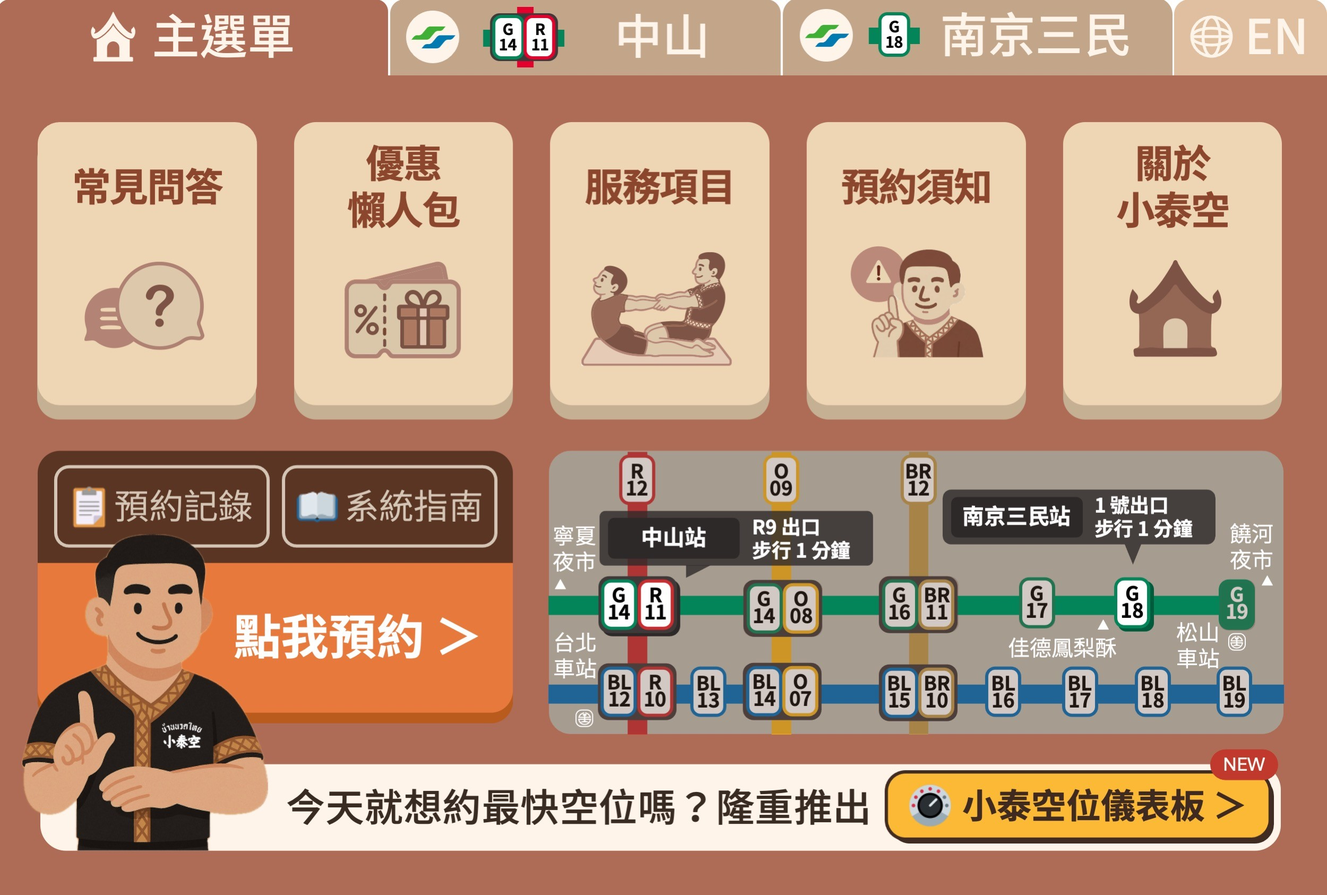
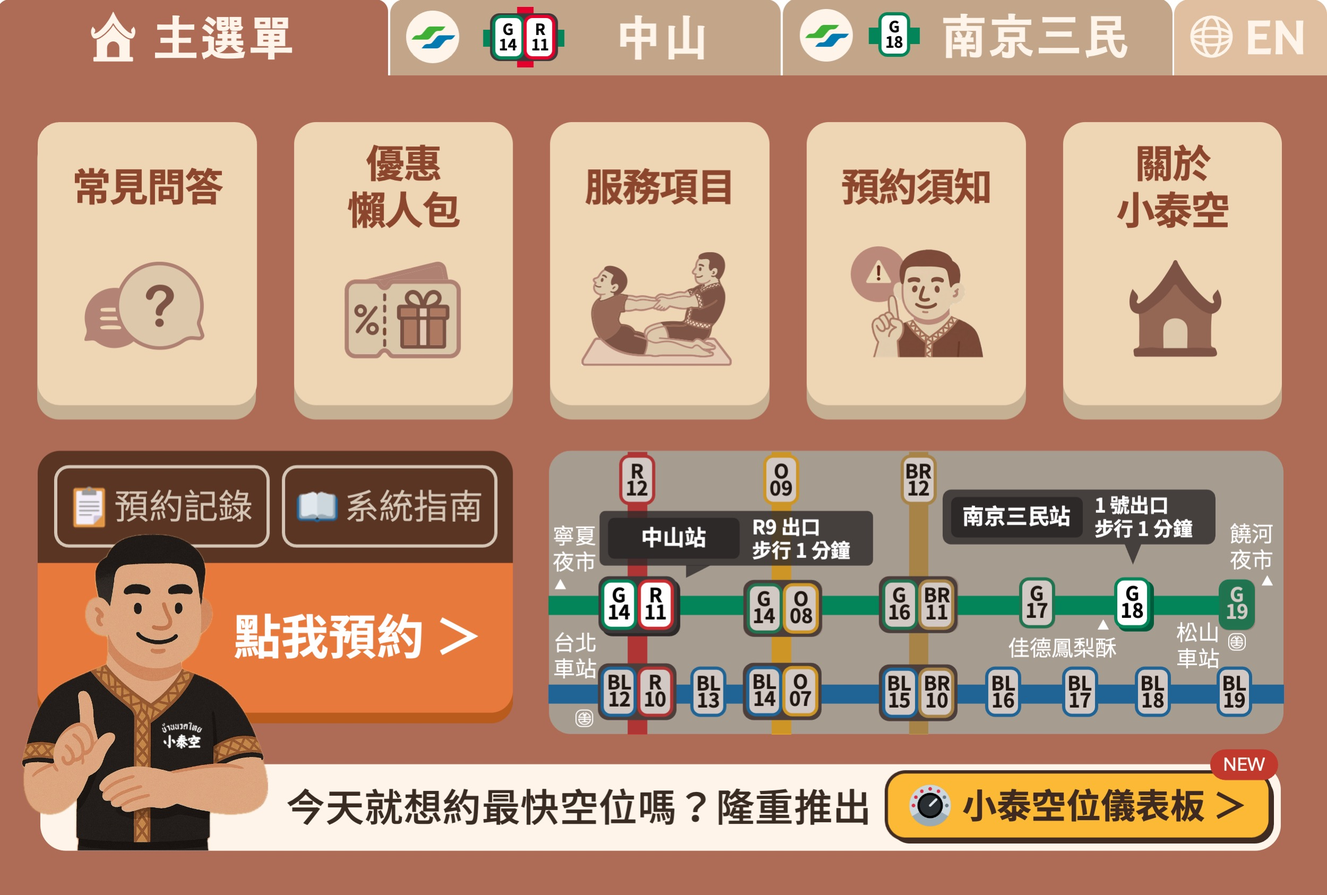
2026-09-24 新師上線版：汪/澤/泰 上線、書 移除
- page2 中山：「新師培訓中，敬請期待」佔位 → 汪 Wang
- page3 南京三民：新增 澤 Ze、泰 Tai；書 移除；九格重新對位
- page5 Team_en：同步 汪/澤/泰，移除 Training in Progress 佔位
- page1 主選單 / page4 English：僅換圖，熱區不變
- 修正 page3 第 2 格錯字 關於書老柏 → 關於柏老師（與 page5 一致）

diff --git a/index.html b/index.html
@@ -60,10 +60,10 @@
 <body>
 <div class="wrap">
 <div class="page" id="p1"><img src="page1.jpg" alt="主選單"><a class="spot" style="left:2.400%;top:13.345%;width:17.040%;height:34.045%" href="https://nick810303.github.io/spacethai_FAQ/" target="_blank" rel="noopener"></a><a class="spot" style="left:21.840%;top:13.286%;width:17.040%;height:34.045%" href="https://line.me/R/oaMessage/%40270vnkfr/?%E5%84%AA%E6%83%A0%E6%87%B6%E4%BA%BA%E5%8C%85" data-msg="優惠懶人包" title="優惠懶人包"></a><a class="spot" style="left:41.120%;top:13.464%;width:17.040%;height:34.045%" href="https://line.me/R/oaMessage/%40270vnkfr/?%E6%9C%8D%E5%8B%99%E9%A0%85%E7%9B%AE" data-msg="服務項目" title="服務項目"></a><a class="spot" style="left:60.560%;top:13.286%;width:17.040%;height:34.045%" href="https://line.me/R/oaMessage/%40270vnkfr/?%E9%A0%90%E7%B4%84%E9%A0%88%E7%9F%A5" data-msg="預約須知" title="預約須知"></a><a class="spot" style="left:80.120%;top:13.286%;width:17.040%;height:34.045%" href="https://line.me/R/oaMessage/%40270vnkfr/?%E9%97%9C%E6%96%BC%E5%B0%8F%E6%B3%B0%E7%A9%BA" data-msg="關於小泰空" title="關於小泰空"></a><a class="spot" style="left:2.560%;top:50.652%;width:18.240%;height:12.218%" href="https://liff.line.me/2007603682-rDEPkdA2/a33MS6uxvrwXxin2jHTk4N/record" target="_blank" rel="noopener"></a><a class="spot" style="left:20.560%;top:50.474%;width:18.240%;height:12.218%" href="https://nick810303.github.io/spacethai_manual/?openExternalBrowser=1" target="_blank" rel="noopener"></a><a class="spot" style="left:11.480%;top:62.574%;width:27.400%;height:17.912%" href="https://liff.line.me/2007603682-rDEPkdA2/a33MS6uxvrwXxin2jHTk4N/menu" target="_blank" rel="noopener"></a><a class="spot" style="left:41.160%;top:50.119%;width:28.160%;height:32.444%" href="https://line.me/R/oaMessage/%40270vnkfr/?%E5%B0%8F%E6%B3%B0%E7%A9%BA%EF%BC%8E%E4%B8%AD%E5%B1%B1" data-msg="小泰空．中山" title="小泰空．中山"></a><a class="spot" style="left:69.280%;top:50.059%;width:27.480%;height:32.444%" href="https://line.me/R/oaMessage/%40270vnkfr/?%E5%B0%8F%E6%B3%B0%E7%A9%BA%EF%BC%8E%E5%8D%97%E4%BA%AC%E4%B8%89%E6%B0%91" data-msg="小泰空．南京三民" title="小泰空．南京三民"></a><a class="spot" style="left:0.000%;top:0.000%;width:29.080%;height:10.854%" href="#p1" onclick="show(1);return false" aria-label="切換頁面"></a><a class="spot" style="left:29.200%;top:0.000%;width:29.800%;height:10.854%" href="#p2" onclick="show(2);return false" aria-label="切換頁面"></a><a class="spot" style="left:58.840%;top:0.000%;width:29.720%;height:10.854%" href="#p3" onclick="show(3);return false" aria-label="切換頁面"></a><a class="spot" style="left:88.600%;top:0.000%;width:11.240%;height:10.854%" href="#p4" onclick="show(4);return false" aria-label="切換頁面"></a><a class="spot" style="left:20.080%;top:85.172%;width:76.760%;height:10.083%" href="https://liff.line.me/2009610906-9zraEtAy" target="_blank" rel="noopener"></a></div>
-<div class="page" id="p2"><img src="page2.jpg" alt="中山"><a class="spot" style="left:2.920%;top:12.100%;width:13.880%;height:35.706%" href="https://line.me/R/oaMessage/%40270vnkfr/?%E9%97%9C%E6%96%BC%E6%BE%88%E8%80%81%E5%B8%AB" data-msg="關於澈老師" title="關於澈老師"></a><a class="spot" style="left:16.680%;top:12.040%;width:12.280%;height:35.706%" href="https://line.me/R/oaMessage/%40270vnkfr/?%E9%97%9C%E6%96%BC%E7%8D%BA%E8%80%81%E5%B8%AB" data-msg="關於獺老師" title="關於獺老師"></a><a class="spot" style="left:29.240%;top:12.100%;width:13.120%;height:35.706%" href="https://line.me/R/oaMessage/%40270vnkfr/?%E9%97%9C%E6%96%BC%E4%BB%A4%E8%80%81%E5%B8%AB" data-msg="關於令老師" title="關於令老師"></a><a class="spot" style="left:42.400%;top:12.040%;width:13.120%;height:35.706%" href="https://line.me/R/oaMessage/%40270vnkfr/?%E9%97%9C%E6%96%BC%E6%82%9F%E8%80%81%E5%B8%AB" data-msg="關於悟老師" title="關於悟老師"></a><a class="spot" style="left:55.400%;top:11.862%;width:13.120%;height:35.706%" href="https://line.me/R/oaMessage/%40270vnkfr/?%E9%97%9C%E6%96%BC%E6%B2%90%E8%80%81%E5%B8%AB" data-msg="關於沐老師" title="關於沐老師"></a><a class="spot" style="left:2.560%;top:50.652%;width:18.240%;height:12.218%" href="https://liff.line.me/2007603682-rDEPkdA2/a33MS6uxvrwXxin2jHTk4N/record" target="_blank" rel="noopener"></a><a class="spot" style="left:20.560%;top:50.474%;width:18.240%;height:12.218%" href="https://nick810303.github.io/spacethai_manual/?openExternalBrowser=1" target="_blank" rel="noopener"></a><a class="spot" style="left:11.480%;top:62.574%;width:27.400%;height:17.912%" href="https://liff.line.me/2007603682-rDEPkdA2/a33MS6uxvrwXxin2jHTk4N/menu" target="_blank" rel="noopener"></a><a class="spot" style="left:41.160%;top:50.119%;width:28.160%;height:32.444%" href="https://line.me/R/oaMessage/%40270vnkfr/?%E5%B0%8F%E6%B3%B0%E7%A9%BA%EF%BC%8E%E4%B8%AD%E5%B1%B1" data-msg="小泰空．中山" title="小泰空．中山"></a><a class="spot" style="left:0.000%;top:0.000%;width:29.080%;height:10.854%" href="#p1" onclick="show(1);return false" aria-label="切換頁面"></a><a class="spot" style="left:29.200%;top:0.000%;width:29.800%;height:10.854%" href="#p2" onclick="show(2);return false" aria-label="切換頁面"></a><a class="spot" style="left:58.840%;top:0.000%;width:29.720%;height:10.854%" href="#p3" onclick="show(3);return false" aria-label="切換頁面"></a><a class="spot" style="left:88.600%;top:0.000%;width:11.240%;height:10.854%" href="#p4" onclick="show(4);return false" aria-label="切換頁面"></a><a class="spot" style="left:20.080%;top:85.172%;width:76.760%;height:10.083%" href="https://liff.line.me/2009610906-9zraEtAy" target="_blank" rel="noopener"></a><a class="spot" style="left:68.720%;top:11.862%;width:14.760%;height:35.587%" href="https://line.me/R/oaMessage/%40270vnkfr/?%E9%97%9C%E6%96%BC%E6%98%87%E8%80%81%E5%B8%AB" data-msg="關於昇老師" title="關於昇老師"></a><a class="spot" style="left:83.640%;top:11.922%;width:14.760%;height:35.587%" href="https://line.me/R/oaMessage/%40270vnkfr/?%E6%96%B0%E5%B8%AB%E5%9F%B9%E8%A8%93%E4%B8%AD%EF%BC%8C%E6%95%AC%E8%AB%8B%E6%9C%9F%E5%BE%85" data-msg="新師培訓中，敬請期待" title="新師培訓中，敬請期待"></a></div>
-<div class="page" id="p3"><img src="page3.jpg" alt="南京三民"><a class="spot" style="left:0.280%;top:12.100%;width:13.880%;height:35.706%" href="https://line.me/R/oaMessage/%40270vnkfr/?%E9%97%9C%E6%96%BC%E6%BA%90%E8%80%81%E5%B8%AB" data-msg="關於源老師" title="關於源老師"></a><a class="spot" style="left:13.440%;top:12.040%;width:12.280%;height:35.706%" href="https://line.me/R/oaMessage/%40270vnkfr/?%E9%97%9C%E6%96%BC%E6%9B%B8%E8%80%81%E5%B8%AB" data-msg="關於書老師" title="關於書老師"></a><a class="spot" style="left:25.040%;top:12.278%;width:12.040%;height:35.706%" href="https://line.me/R/oaMessage/%40270vnkfr/?%E9%97%9C%E6%96%BC%E6%9F%8F%E8%80%81%E5%B8%AB" data-msg="關於柏老師" title="關於柏老師"></a><a class="spot" style="left:37.000%;top:12.218%;width:12.400%;height:35.706%" href="https://line.me/R/oaMessage/%40270vnkfr/?%E9%97%9C%E6%96%BC%E9%8D%9B%E8%80%81%E5%B8%AB" data-msg="關於鍛老師" title="關於鍛老師"></a><a class="spot" style="left:49.400%;top:11.862%;width:12.600%;height:35.706%" href="https://line.me/R/oaMessage/%40270vnkfr/?%E9%97%9C%E6%96%BC%E6%9B%9C%E8%80%81%E5%B8%AB" data-msg="關於曜老師" title="關於曜老師"></a><a class="spot" style="left:61.880%;top:12.159%;width:12.720%;height:35.706%" href="https://line.me/R/oaMessage/%40270vnkfr/?%E9%97%9C%E6%96%BC%E6%A4%B0%E8%80%81%E5%B8%AB" data-msg="關於椰老師" title="關於椰老師"></a><a class="spot" style="left:74.480%;top:12.040%;width:12.240%;height:35.706%" href="https://line.me/R/oaMessage/%40270vnkfr/?%E9%97%9C%E6%96%BC%E5%AF%A7%E8%80%81%E5%B8%AB" data-msg="關於寧老師" title="關於寧老師"></a><a class="spot" style="left:2.560%;top:50.652%;width:18.240%;height:12.218%" href="https://liff.line.me/2007603682-rDEPkdA2/a33MS6uxvrwXxin2jHTk4N/record" target="_blank" rel="noopener"></a><a class="spot" style="left:20.560%;top:50.474%;width:18.240%;height:12.218%" href="https://nick810303.github.io/spacethai_manual/?openExternalBrowser=1" target="_blank" rel="noopener"></a><a class="spot" style="left:11.480%;top:62.574%;width:27.400%;height:17.912%" href="https://liff.line.me/2007603682-rDEPkdA2/a33MS6uxvrwXxin2jHTk4N/menu" target="_blank" rel="noopener"></a><a class="spot" style="left:69.000%;top:50.237%;width:28.160%;height:32.444%" href="https://line.me/R/oaMessage/%40270vnkfr/?%E5%B0%8F%E6%B3%B0%E7%A9%BA%EF%BC%8E%E5%8D%97%E4%BA%AC%E4%B8%89%E6%B0%91" data-msg="小泰空．南京三民" title="小泰空．南京三民"></a><a class="spot" style="left:0.000%;top:0.000%;width:29.080%;height:10.854%" href="#p1" onclick="show(1);return false" aria-label="切換頁面"></a><a class="spot" style="left:29.200%;top:0.000%;width:29.800%;height:10.854%" href="#p2" onclick="show(2);return false" aria-label="切換頁面"></a><a class="spot" style="left:58.840%;top:0.000%;width:29.720%;height:10.854%" href="#p3" onclick="show(3);return false" aria-label="切換頁面"></a><a class="spot" style="left:88.600%;top:0.000%;width:11.240%;height:10.854%" href="#p4" onclick="show(4);return false" aria-label="切換頁面"></a><a class="spot" style="left:86.640%;top:12.159%;width:13.360%;height:34.698%" href="https://line.me/R/oaMessage/%40270vnkfr/?%E9%97%9C%E6%96%BC%E6%98%8A%E8%80%81%E5%B8%AB" data-msg="關於昊老師" title="關於昊老師"></a><a class="spot" style="left:20.680%;top:85.172%;width:76.760%;height:10.083%" href="https://liff.line.me/2009610906-9zraEtAy" target="_blank" rel="noopener"></a></div>
+<div class="page" id="p2"><img src="page2.jpg" alt="中山"><a class="spot" style="left:2.680%;top:12.337%;width:13.880%;height:35.706%" href="https://line.me/R/oaMessage/%40270vnkfr/?%E9%97%9C%E6%96%BC%E6%BE%88%E8%80%81%E5%B8%AB" data-msg="關於澈老師" title="關於澈老師"></a><a class="spot" style="left:16.680%;top:12.040%;width:12.280%;height:35.706%" href="https://line.me/R/oaMessage/%40270vnkfr/?%E9%97%9C%E6%96%BC%E7%8D%BA%E8%80%81%E5%B8%AB" data-msg="關於獺老師" title="關於獺老師"></a><a class="spot" style="left:29.240%;top:12.100%;width:13.120%;height:35.706%" href="https://line.me/R/oaMessage/%40270vnkfr/?%E9%97%9C%E6%96%BC%E4%BB%A4%E8%80%81%E5%B8%AB" data-msg="關於令老師" title="關於令老師"></a><a class="spot" style="left:42.400%;top:12.040%;width:13.120%;height:35.706%" href="https://line.me/R/oaMessage/%40270vnkfr/?%E9%97%9C%E6%96%BC%E6%82%9F%E8%80%81%E5%B8%AB" data-msg="關於悟老師" title="關於悟老師"></a><a class="spot" style="left:55.400%;top:11.862%;width:13.120%;height:35.706%" href="https://line.me/R/oaMessage/%40270vnkfr/?%E9%97%9C%E6%96%BC%E6%B2%90%E8%80%81%E5%B8%AB" data-msg="關於沐老師" title="關於沐老師"></a><a class="spot" style="left:2.560%;top:50.652%;width:18.240%;height:12.218%" href="https://liff.line.me/2007603682-rDEPkdA2/a33MS6uxvrwXxin2jHTk4N/record" target="_blank" rel="noopener"></a><a class="spot" style="left:20.560%;top:50.474%;width:18.240%;height:12.218%" href="https://nick810303.github.io/spacethai_manual/?openExternalBrowser=1" target="_blank" rel="noopener"></a><a class="spot" style="left:11.480%;top:62.574%;width:27.400%;height:17.912%" href="https://liff.line.me/2007603682-rDEPkdA2/a33MS6uxvrwXxin2jHTk4N/menu" target="_blank" rel="noopener"></a><a class="spot" style="left:41.160%;top:50.119%;width:28.160%;height:32.444%" href="https://line.me/R/oaMessage/%40270vnkfr/?%E5%B0%8F%E6%B3%B0%E7%A9%BA%EF%BC%8E%E4%B8%AD%E5%B1%B1" data-msg="小泰空．中山" title="小泰空．中山"></a><a class="spot" style="left:0.000%;top:0.000%;width:29.080%;height:10.854%" href="#p1" onclick="show(1);return false" aria-label="切換頁面"></a><a class="spot" style="left:29.200%;top:0.000%;width:29.800%;height:10.854%" href="#p2" onclick="show(2);return false" aria-label="切換頁面"></a><a class="spot" style="left:58.840%;top:0.000%;width:29.720%;height:10.854%" href="#p3" onclick="show(3);return false" aria-label="切換頁面"></a><a class="spot" style="left:88.600%;top:0.000%;width:11.240%;height:10.854%" href="#p4" onclick="show(4);return false" aria-label="切換頁面"></a><a class="spot" style="left:20.080%;top:85.172%;width:76.760%;height:10.083%" href="https://liff.line.me/2009610906-9zraEtAy" target="_blank" rel="noopener"></a><a class="spot" style="left:68.720%;top:11.862%;width:14.760%;height:35.587%" href="https://line.me/R/oaMessage/%40270vnkfr/?%E9%97%9C%E6%96%BC%E6%98%87%E8%80%81%E5%B8%AB" data-msg="關於昇老師" title="關於昇老師"></a><a class="spot" style="left:83.640%;top:11.922%;width:14.760%;height:35.587%" href="https://line.me/R/oaMessage/%40270vnkfr/?%E9%97%9C%E6%96%BC%E6%B1%AA%E8%80%81%E5%B8%AB" data-msg="關於汪老師" title="關於汪老師"></a></div>
+<div class="page" id="p3"><img src="page3.jpg" alt="南京三民"><a class="spot" style="left:0.280%;top:11.981%;width:12.160%;height:35.706%" href="https://line.me/R/oaMessage/%40270vnkfr/?%E9%97%9C%E6%96%BC%E6%BA%90%E8%80%81%E5%B8%AB" data-msg="關於源老師" title="關於源老師"></a><a class="spot" style="left:12.440%;top:12.040%;width:10.680%;height:35.706%" href="https://line.me/R/oaMessage/%40270vnkfr/?%E9%97%9C%E6%96%BC%E6%9F%8F%E8%80%81%E5%B8%AB" data-msg="關於柏老師" title="關於柏老師"></a><a class="spot" style="left:23.320%;top:12.278%;width:10.240%;height:35.706%" href="https://line.me/R/oaMessage/%40270vnkfr/?%E9%97%9C%E6%96%BC%E9%8D%9B%E8%80%81%E5%B8%AB" data-msg="關於鍛老師" title="關於鍛老師"></a><a class="spot" style="left:33.800%;top:12.100%;width:10.600%;height:35.706%" href="https://line.me/R/oaMessage/%40270vnkfr/?%E9%97%9C%E6%96%BC%E6%9B%9C%E8%80%81%E5%B8%AB" data-msg="關於曜老師" title="關於曜老師"></a><a class="spot" style="left:44.600%;top:11.862%;width:10.640%;height:35.706%" href="https://line.me/R/oaMessage/%40270vnkfr/?%E9%97%9C%E6%96%BC%E6%A4%B0%E8%80%81%E5%B8%AB" data-msg="關於椰老師" title="關於椰老師"></a><a class="spot" style="left:55.360%;top:11.922%;width:10.600%;height:35.706%" href="https://line.me/R/oaMessage/%40270vnkfr/?%E9%97%9C%E6%96%BC%E5%AF%A7%E8%80%81%E5%B8%AB" data-msg="關於寧老師" title="關於寧老師"></a><a class="spot" style="left:66.160%;top:11.684%;width:10.520%;height:35.706%" href="https://line.me/R/oaMessage/%40270vnkfr/?%E9%97%9C%E6%96%BC%E6%98%8A%E8%80%81%E5%B8%AB" data-msg="關於昊老師" title="關於昊老師"></a><a class="spot" style="left:2.560%;top:50.652%;width:18.240%;height:12.218%" href="https://liff.line.me/2007603682-rDEPkdA2/a33MS6uxvrwXxin2jHTk4N/record" target="_blank" rel="noopener"></a><a class="spot" style="left:20.560%;top:50.474%;width:18.240%;height:12.218%" href="https://nick810303.github.io/spacethai_manual/?openExternalBrowser=1" target="_blank" rel="noopener"></a><a class="spot" style="left:11.480%;top:62.574%;width:27.400%;height:17.912%" href="https://liff.line.me/2007603682-rDEPkdA2/a33MS6uxvrwXxin2jHTk4N/menu" target="_blank" rel="noopener"></a><a class="spot" style="left:69.000%;top:50.237%;width:28.160%;height:32.444%" href="https://line.me/R/oaMessage/%40270vnkfr/?%E5%B0%8F%E6%B3%B0%E7%A9%BA%EF%BC%8E%E5%8D%97%E4%BA%AC%E4%B8%89%E6%B0%91" data-msg="小泰空．南京三民" title="小泰空．南京三民"></a><a class="spot" style="left:0.000%;top:0.000%;width:29.080%;height:10.854%" href="#p1" onclick="show(1);return false" aria-label="切換頁面"></a><a class="spot" style="left:29.200%;top:0.000%;width:29.800%;height:10.854%" href="#p2" onclick="show(2);return false" aria-label="切換頁面"></a><a class="spot" style="left:58.840%;top:0.000%;width:29.720%;height:10.854%" href="#p3" onclick="show(3);return false" aria-label="切換頁面"></a><a class="spot" style="left:88.600%;top:0.000%;width:11.240%;height:10.854%" href="#p4" onclick="show(4);return false" aria-label="切換頁面"></a><a class="spot" style="left:77.000%;top:11.329%;width:10.360%;height:35.884%" href="https://line.me/R/oaMessage/%40270vnkfr/?%E9%97%9C%E6%96%BC%E6%BE%A4%E8%80%81%E5%B8%AB" data-msg="關於澤老師" title="關於澤老師"></a><a class="spot" style="left:87.640%;top:11.151%;width:11.920%;height:35.884%" href="https://line.me/R/oaMessage/%40270vnkfr/?%E9%97%9C%E6%96%BC%E6%B3%B0%E8%80%81%E5%B8%AB" data-msg="關於泰老師" title="關於泰老師"></a><a class="spot" style="left:20.680%;top:85.172%;width:76.760%;height:10.083%" href="https://liff.line.me/2009610906-9zraEtAy" target="_blank" rel="noopener"></a></div>
 <div class="page" id="p4"><img src="page4.jpg" alt="English"><a class="spot" style="left:2.400%;top:13.345%;width:17.040%;height:34.045%" href="https://nick810303.github.io/spacethai_FAQ/?lang=en" target="_blank" rel="noopener"></a><a class="spot" style="left:21.840%;top:13.286%;width:17.040%;height:34.045%" href="https://line.me/R/oaMessage/%40270vnkfr/?Savings" data-msg="Savings" title="Savings"></a><a class="spot" style="left:41.120%;top:13.464%;width:17.040%;height:34.045%" href="https://line.me/R/oaMessage/%40270vnkfr/?Service" data-msg="Service" title="Service"></a><a class="spot" style="left:60.560%;top:13.286%;width:17.040%;height:34.045%" href="#p5" onclick="show(5);return false" aria-label="切換頁面"></a><a class="spot" style="left:80.120%;top:13.286%;width:17.040%;height:34.045%" href="https://line.me/R/oaMessage/%40270vnkfr/?About" data-msg="About" title="About"></a><a class="spot" style="left:2.560%;top:50.652%;width:18.240%;height:12.218%" href="https://liff.line.me/2007603682-rDEPkdA2/a33MS6uxvrwXxin2jHTk4N/record" target="_blank" rel="noopener"></a><a class="spot" style="left:20.560%;top:50.474%;width:18.240%;height:12.218%" href="https://nick810303.github.io/spacethai_manual/?lang=en&amp;openExternalBrowser=1" target="_blank" rel="noopener"></a><a class="spot" style="left:11.480%;top:62.574%;width:27.400%;height:17.912%" href="https://liff.line.me/2007603682-rDEPkdA2/a33MS6uxvrwXxin2jHTk4N/menu" target="_blank" rel="noopener"></a><a class="spot" style="left:41.160%;top:50.237%;width:28.160%;height:32.444%" href="https://line.me/R/oaMessage/%40270vnkfr/?Zhongshan" data-msg="Zhongshan" title="Zhongshan"></a><a class="spot" style="left:69.200%;top:50.178%;width:27.480%;height:32.444%" href="https://line.me/R/oaMessage/%40270vnkfr/?Nanjing%20Sanmin" data-msg="Nanjing Sanmin" title="Nanjing Sanmin"></a><a class="spot" style="left:0.000%;top:0.000%;width:29.080%;height:10.854%" href="#p1" onclick="show(1);return false" aria-label="切換頁面"></a><a class="spot" style="left:29.200%;top:0.000%;width:29.800%;height:10.854%" href="#p2" onclick="show(2);return false" aria-label="切換頁面"></a><a class="spot" style="left:58.840%;top:0.000%;width:29.720%;height:10.854%" href="#p3" onclick="show(3);return false" aria-label="切換頁面"></a><a class="spot" style="left:88.600%;top:0.000%;width:11.240%;height:10.854%" href="#p4" onclick="show(4);return false" aria-label="切換頁面"></a></div>
-<div class="page" id="p5"><img src="page5.jpg" alt="Team_en"><a class="spot" style="left:1.360%;top:1.542%;width:62.560%;height:11.507%" href="https://line.me/R/oaMessage/%40270vnkfr/?Zhongshan" data-msg="Zhongshan" title="Zhongshan"></a><a class="spot" style="left:1.320%;top:50.178%;width:68.080%;height:11.507%" href="https://line.me/R/oaMessage/%40270vnkfr/?Nanjing%20Sanmin" data-msg="Nanjing Sanmin" title="Nanjing Sanmin"></a><a class="spot" style="left:2.920%;top:13.108%;width:13.880%;height:35.706%" href="https://line.me/R/oaMessage/%40270vnkfr/?%E9%97%9C%E6%96%BC%E6%BE%88%E8%80%81%E5%B8%AB" data-msg="關於澈老師" title="關於澈老師"></a><a class="spot" style="left:16.920%;top:13.286%;width:12.280%;height:35.706%" href="https://line.me/R/oaMessage/%40270vnkfr/?%E9%97%9C%E6%96%BC%E7%8D%BA%E8%80%81%E5%B8%AB" data-msg="關於獺老師" title="關於獺老師"></a><a class="spot" style="left:29.160%;top:13.108%;width:13.120%;height:35.706%" href="https://line.me/R/oaMessage/%40270vnkfr/?%E9%97%9C%E6%96%BC%E4%BB%A4%E8%80%81%E5%B8%AB" data-msg="關於令老師" title="關於令老師"></a><a class="spot" style="left:42.400%;top:13.167%;width:13.120%;height:35.706%" href="https://line.me/R/oaMessage/%40270vnkfr/?%E9%97%9C%E6%96%BC%E6%82%9F%E8%80%81%E5%B8%AB" data-msg="關於悟老師" title="關於悟老師"></a><a class="spot" style="left:55.560%;top:13.227%;width:13.120%;height:35.706%" href="https://line.me/R/oaMessage/%40270vnkfr/?%E9%97%9C%E6%96%BC%E6%B2%90%E8%80%81%E5%B8%AB" data-msg="關於沐老師" title="關於沐老師"></a><a class="spot" style="left:69.000%;top:13.464%;width:13.920%;height:35.706%" href="https://line.me/R/oaMessage/%40270vnkfr/?%E9%97%9C%E6%96%BC%E6%98%87%E8%80%81%E5%B8%AB" data-msg="關於昇老師" title="關於昇老師"></a><a class="spot" style="left:83.120%;top:13.582%;width:13.920%;height:35.706%" href="https://line.me/R/oaMessage/%40270vnkfr/?Training%20in%20Progress%20%E2%80%A2%20Coming%20Soon" data-msg="Training in Progress • Coming Soon" title="Training in Progress • Coming Soon"></a><a class="spot" style="left:0.680%;top:62.218%;width:12.800%;height:35.706%" href="https://line.me/R/oaMessage/%40270vnkfr/?%E9%97%9C%E6%96%BC%E6%BA%90%E8%80%81%E5%B8%AB" data-msg="關於源老師" title="關於源老師"></a><a class="spot" style="left:13.320%;top:62.218%;width:12.280%;height:35.706%" href="https://line.me/R/oaMessage/%40270vnkfr/?%E9%97%9C%E6%96%BC%E6%9B%B8%E8%80%81%E5%B8%AB" data-msg="關於書老師" title="關於書老師"></a><a class="spot" style="left:25.600%;top:61.803%;width:11.680%;height:35.706%" href="https://line.me/R/oaMessage/%40270vnkfr/?%E9%97%9C%E6%96%BC%E6%9F%8F%E8%80%81%E5%B8%AB" data-msg="關於柏老師" title="關於柏老師"></a><a class="spot" style="left:37.080%;top:62.040%;width:12.280%;height:35.706%" href="https://line.me/R/oaMessage/%40270vnkfr/?%E9%97%9C%E6%96%BC%E9%8D%9B%E8%80%81%E5%B8%AB" data-msg="關於鍛老師" title="關於鍛老師"></a><a class="spot" style="left:49.200%;top:61.981%;width:12.960%;height:35.706%" href="https://line.me/R/oaMessage/%40270vnkfr/?%E9%97%9C%E6%96%BC%E6%9B%9C%E8%80%81%E5%B8%AB" data-msg="關於曜老師" title="關於曜老師"></a><a class="spot" style="left:62.000%;top:61.922%;width:12.480%;height:35.706%" href="https://line.me/R/oaMessage/%40270vnkfr/?%E9%97%9C%E6%96%BC%E6%A4%B0%E8%80%81%E5%B8%AB" data-msg="關於椰老師" title="關於椰老師"></a><a class="spot" style="left:74.360%;top:61.684%;width:12.120%;height:35.706%" href="https://line.me/R/oaMessage/%40270vnkfr/?%E9%97%9C%E6%96%BC%E5%AF%A7%E8%80%81%E5%B8%AB" data-msg="關於寧老師" title="關於寧老師"></a><a class="spot" style="left:78.720%;top:0.000%;width:21.280%;height:13.760%" href="#p4" onclick="show(4);return false" aria-label="切換頁面"></a><a class="spot" style="left:86.400%;top:62.159%;width:13.360%;height:35.409%" href="https://line.me/R/oaMessage/%40270vnkfr/?%E9%97%9C%E6%96%BC%E6%98%8A%E8%80%81%E5%B8%AB" data-msg="關於昊老師" title="關於昊老師"></a></div>
+<div class="page" id="p5"><img src="page5.jpg" alt="Team_en"><a class="spot" style="left:1.360%;top:1.542%;width:56.120%;height:11.507%" href="https://line.me/R/oaMessage/%40270vnkfr/?Zhongshan" data-msg="Zhongshan" title="Zhongshan"></a><a class="spot" style="left:1.320%;top:50.178%;width:58.920%;height:11.507%" href="https://line.me/R/oaMessage/%40270vnkfr/?Nanjing%20Sanmin" data-msg="Nanjing Sanmin" title="Nanjing Sanmin"></a><a class="spot" style="left:2.920%;top:13.108%;width:13.880%;height:35.706%" href="https://line.me/R/oaMessage/%40270vnkfr/?%E9%97%9C%E6%96%BC%E6%BE%88%E8%80%81%E5%B8%AB" data-msg="關於澈老師" title="關於澈老師"></a><a class="spot" style="left:16.920%;top:13.286%;width:12.280%;height:35.706%" href="https://line.me/R/oaMessage/%40270vnkfr/?%E9%97%9C%E6%96%BC%E7%8D%BA%E8%80%81%E5%B8%AB" data-msg="關於獺老師" title="關於獺老師"></a><a class="spot" style="left:29.160%;top:13.108%;width:13.120%;height:35.706%" href="https://line.me/R/oaMessage/%40270vnkfr/?%E9%97%9C%E6%96%BC%E4%BB%A4%E8%80%81%E5%B8%AB" data-msg="關於令老師" title="關於令老師"></a><a class="spot" style="left:42.400%;top:13.167%;width:13.120%;height:35.706%" href="https://line.me/R/oaMessage/%40270vnkfr/?%E9%97%9C%E6%96%BC%E6%82%9F%E8%80%81%E5%B8%AB" data-msg="關於悟老師" title="關於悟老師"></a><a class="spot" style="left:55.560%;top:13.227%;width:13.120%;height:35.706%" href="https://line.me/R/oaMessage/%40270vnkfr/?%E9%97%9C%E6%96%BC%E6%B2%90%E8%80%81%E5%B8%AB" data-msg="關於沐老師" title="關於沐老師"></a><a class="spot" style="left:69.000%;top:13.464%;width:13.920%;height:35.706%" href="https://line.me/R/oaMessage/%40270vnkfr/?%E9%97%9C%E6%96%BC%E6%98%87%E8%80%81%E5%B8%AB" data-msg="關於昇老師" title="關於昇老師"></a><a class="spot" style="left:83.120%;top:13.582%;width:13.920%;height:35.706%" href="https://line.me/R/oaMessage/%40270vnkfr/?%E9%97%9C%E6%96%BC%E6%B1%AA%E8%80%81%E5%B8%AB" data-msg="關於汪老師" title="關於汪老師"></a><a class="spot" style="left:0.680%;top:62.218%;width:11.560%;height:35.706%" href="https://line.me/R/oaMessage/%40270vnkfr/?%E9%97%9C%E6%96%BC%E6%BA%90%E8%80%81%E5%B8%AB" data-msg="關於源老師" title="關於源老師"></a><a class="spot" style="left:12.200%;top:62.278%;width:11.280%;height:35.706%" href="https://line.me/R/oaMessage/%40270vnkfr/?%E9%97%9C%E6%96%BC%E6%9F%8F%E8%80%81%E5%B8%AB" data-msg="關於柏老師" title="關於柏老師"></a><a class="spot" style="left:23.520%;top:61.922%;width:10.160%;height:35.706%" href="https://line.me/R/oaMessage/%40270vnkfr/?%E9%97%9C%E6%96%BC%E9%8D%9B%E8%80%81%E5%B8%AB" data-msg="關於鍛老師" title="關於鍛老師"></a><a class="spot" style="left:33.760%;top:61.744%;width:10.600%;height:35.706%" href="https://line.me/R/oaMessage/%40270vnkfr/?%E9%97%9C%E6%96%BC%E6%9B%9C%E8%80%81%E5%B8%AB" data-msg="關於曜老師" title="關於曜老師"></a><a class="spot" style="left:44.520%;top:61.684%;width:10.760%;height:35.706%" href="https://line.me/R/oaMessage/%40270vnkfr/?%E9%97%9C%E6%96%BC%E6%A4%B0%E8%80%81%E5%B8%AB" data-msg="關於椰老師" title="關於椰老師"></a><a class="spot" style="left:55.320%;top:61.447%;width:10.800%;height:35.706%" href="https://line.me/R/oaMessage/%40270vnkfr/?%E9%97%9C%E6%96%BC%E5%AF%A7%E8%80%81%E5%B8%AB" data-msg="關於寧老師" title="關於寧老師"></a><a class="spot" style="left:78.720%;top:0.000%;width:21.280%;height:13.760%" href="#p4" onclick="show(4);return false" aria-label="切換頁面"></a><a class="spot" style="left:66.400%;top:61.566%;width:10.360%;height:35.409%" href="https://line.me/R/oaMessage/%40270vnkfr/?%E9%97%9C%E6%96%BC%E6%98%8A%E8%80%81%E5%B8%AB" data-msg="關於昊老師" title="關於昊老師"></a><a class="spot" style="left:77.040%;top:61.507%;width:10.360%;height:35.409%" href="https://line.me/R/oaMessage/%40270vnkfr/?%E9%97%9C%E6%96%BC%E6%BE%A4%E8%80%81%E5%B8%AB" data-msg="關於澤老師" title="關於澤老師"></a><a class="spot" style="left:87.920%;top:61.329%;width:10.360%;height:35.409%" href="https://line.me/R/oaMessage/%40270vnkfr/?%E9%97%9C%E6%96%BC%E6%B3%B0%E8%80%81%E5%B8%AB" data-msg="關於泰老師" title="關於泰老師"></a></div>
 </div>
 <div id="toast"></div>
 <script>
